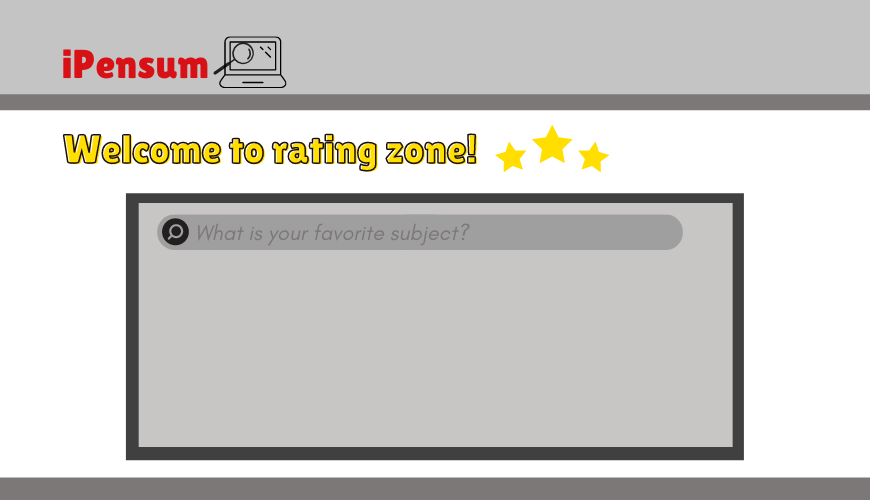
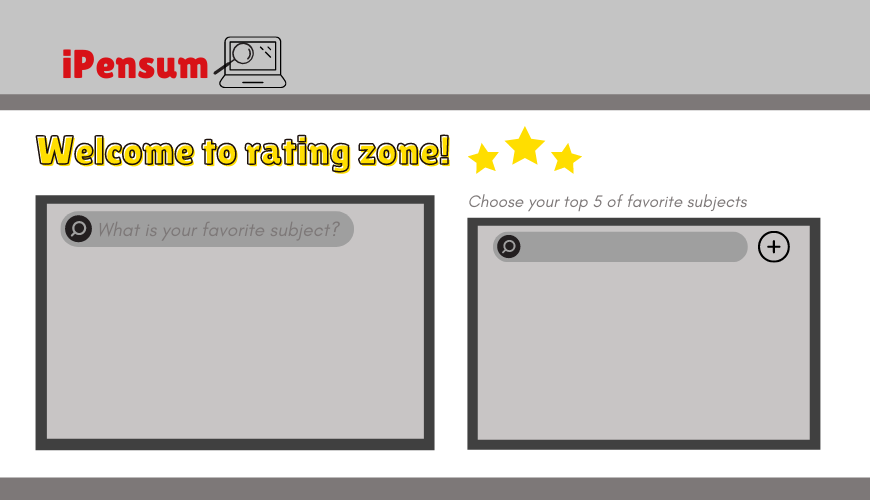
menu rating update

Changed region(s): [[0.031, 0.24, 0.9621, 0.93]]

diff --git a/App.py b/App.py
@@ -1,12 +1,19 @@
 import code
+from contextlib import nullcontext
 from email.mime import image
 import tkinter as tk
 from tkinter import Entry, Menu, StringVar, Widget, font
 from cv2 import split
+from numpy import mat
 import imagenes
 import archivos_txt
 from Funcionalidades import *
+
+
 ob = Functions()
+
+
+
 
 # Propiedades del frame
 ventana = tk.Tk()
@@ -41,6 +48,7 @@ botonMalla = tk.PhotoImage(file="imagenes/botonMalla.png")
 botonSemestre = tk.PhotoImage(file="imagenes/botonSemestre.png")
 botonActividades = tk.PhotoImage(file="imagenes/botonActividades.png")
 botonRating = tk.PhotoImage(file="imagenes/botonRating.png")
+botonAgg = tk.PhotoImage(file = "imagenes/agg.png")
 # Botones para el semestre
 BotonPrimer = tk.PhotoImage(file="imagenes/BotonPrimer.png")
 BotonSegundo = tk.PhotoImage(file="imagenes/BotonSegundo.png")
@@ -260,42 +268,29 @@ def MenuSemestre():  # Dependiendo de que semestre escoga, saldrá información 
     interfaz.pack()
     label1 = tk.Label(interfaz, image=semPlantilla)
     label1.pack()
-    #string=semestre
+
+    
     # BACK TO MENU ESCOGENCIA (LO QUE QUIERE BUSCAR)
     botonB = tk.Button(ventana, image=botonBack, width=60,
                        command=MenuEleccionSemestre, borderwidth=0, cursor="heart")
     botonB.place(x=757, y=7, height=72)
-    #ob.imprimirSemestre(ventana,"Primer Semestre")
-    ''''
-    txtM = []
-    with open("archivos_txt/txtSemestre.txt") as fname:
-        for lineas in fname:
-            txtM.append(lineas.split(","))
-    i = 0
-    sw = 1
-    sem = []
-    for lines in lineas:
-        # ES IGUAL A XXXX SEMESTRE (SIRVE CON TODOS)
-        if txtM[i][1] == "Sexto semestre":## aquí se va a reemplazar por la variable semestre
-            sem.append(txtM[i])              # la cual significa en qué botón seleccionó para imprimir 
-            i = i+1
-            sw = 0
-        else:
-            if sw == 1:
-                i = i+1
-        #############################################
-    print (sem)
-    string = " ".join([str(item) for item in sem[0]])
-    print ("")
-    print ("")
-    print (string)
-    tk.Label(ventana, bg = "white", text=string,width = 90, height=2, font=("Calibri",14,"italic")).place(x=0,y=380)
-    ##############################################
-    '''
+    ob.imprimirSemestre(ventana,"Primer semestre")
     # Create a Button to call close()
     tk.Button(ventana, image=Cerrar, command=close, borderwidth=0,
               width=50, height=50, cursor="heart").place(x=10, y=3)
 
+
+
+'''
+def MenuMalla (): #Menu cuando haya elegido que desea ver la malla 
+    for ele in ventana.winfo_children():
+        ele.destroy()
+    interfaz = tk.Canvas(ventana)
+    interfaz.pack()
+    label1 = tk.Label(interfaz, image= #debe ser malla)
+    label1.pack()
+    
+'''
 
 def MenuActividades():  # Menu de actividades extracurriculares
     for ele in ventana.winfo_children():
@@ -345,10 +340,23 @@ def MenuRating():  # Menu de rating zone
         lines = fname.readlines()
     # Conver list to str
     string = "• ".join([str(item) for item in lines])
-    tk.Label(ventana, bg="gray77", text="• "+string, width=30, height=8,
-             font=("Brown-courier", 14, "italic"), justify="left").place(x=190, y=257)
-
-
+    tk.Label(ventana, bg="gray77", text="• "+string, width=30, height=6,
+             font=("Brown-courier", 14, "italic"), justify="left").place(x=80, y=257)
+    
+    
+    def agrega ():
+        mat = entrada.get()
+        if mat != "":
+             lstMaterias.insert(END,entrada.get())
+        
+  
+    lstMaterias = Listbox(ventana, width=33, height = 8, bg = "gray77", relief = GROOVE, bd=0, font=('Ubuntu',12, "italic"));
+    lstMaterias.place (x=490,y=270)
+    entrada = StringVar()
+    
+    txtMateria = Entry(ventana,textvariable=entrada,width=24, bg = "gray61", borderwidth=0, font=('Ubuntu', 12, "italic"), fg = "gray20").place (x=525, y= 235)
+    btnAgregar = Button (ventana, image = botonAgg, height=40,width=40,command=agrega, borderwidth=0).place(x=750, y=226)
+    
 def MenuInstrucciones():  # Instrucciones de la app
 
     for ele in ventana.winfo_children():
@@ -371,17 +379,6 @@ def close():   # Cerrar ventana en donde estemos
     # ventana.destroy()
     ventana.quit()
 
-
-'''
-def MenuMalla (): #Menu cuando haya elegido que desea ver la malla 
-    for ele in ventana.winfo_children():
-        ele.destroy()
-    interfaz = tk.Canvas(ventana)
-    interfaz.pack()
-    label1 = tk.Label(interfaz, image= #debe ser malla)
-    label1.pack()
-    
-'''
 
 
 MainMenu()

diff --git a/Funcionalidades.py b/Funcionalidades.py
@@ -38,9 +38,9 @@ class Functions():
     
 
     # para abrir el archivo y que imprima dependiendo al semestre selecionado
-    def imprimirSemestre(ventana, semestre: str):
-
+    def imprimirSemestre(self, ventana, semestre: str):
         from tkinter import ttk
+        
         # ABRIR TXT DE MATERIAS, ESTE ES EL TXT DE LA INFO DE CADA MATERIA EN CADA SEM
         txtM = []
         with open("archivos_txt/txtSemestre.txt") as fname:
@@ -116,8 +116,20 @@ class Functions():
                 "", END, text=sem[i+6][0], values=(sem[i+6][j], sem[i+6][j+1], sem[i+6][j+2]))
 
         tv.pack()
-    def imprimirLabel(self):
-         pass
+        print ("hola")
+
+
+
+
+
+
+
+
+
+
+
+
+
 
 """"
 inicializamos la clase
